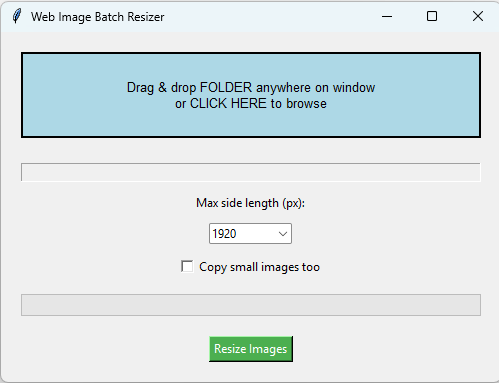
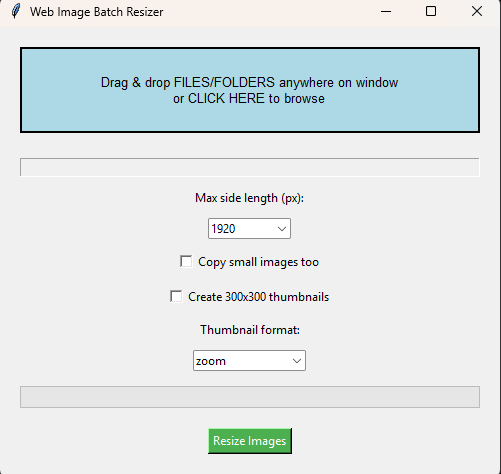
Added thumbnail options

diff --git a/image_resizer.py b/image_resizer.py
@@ -11,7 +11,7 @@ class ImageResizerApp:
     def __init__(self, root):
         self.root = root
         self.root.title("Web Image Batch Resizer")
-        self.root.geometry("500x350")
+        self.root.geometry("500x450")  # Increased height to accommodate all elements
 
         # Root window handles drag-drop (reliable on Windows)
         self.root.drop_target_register(DND_FILES)
@@ -19,7 +19,7 @@ class ImageResizerApp:
 
         self.folder_path = ""
         self.dropped_paths = []  # files and/or folders from drag-drop
-        self.max_sizes = [1920, 1200, 800]
+        self.max_sizes = [1920, 1200, 800, 300]
 
         # Drop zone label (click to browse)
         self.drop_label = tk.Label(
@@ -55,6 +55,24 @@ class ImageResizerApp:
         tk.Checkbutton(
             root, text="Copy small images too", variable=self.copy_small
         ).pack(pady=5)
+
+        # Checkbox for creating thumbnails (300x300)
+        self.create_thumbnails = tk.BooleanVar(value=False)
+        tk.Checkbutton(
+            root, text="Create 300x300 thumbnails", variable=self.create_thumbnails
+        ).pack(pady=5)
+
+        # Thumbnail format selection
+        tk.Label(root, text="Thumbnail format:").pack(pady=5)
+        self.thumbnail_format = tk.StringVar(value="zoom")
+        thumbnail_formats = ttk.Combobox(
+            root,
+            textvariable=self.thumbnail_format,
+            values=["zoom", "black bars", "white bars", "transparent - .png"],
+            state="readonly",
+            width=15,
+        )
+        thumbnail_formats.pack(pady=5)
 
         # Progress bar
         self.progress = ttk.Progressbar(root, mode="determinate")
@@ -200,6 +218,75 @@ class ImageResizerApp:
                         (new_w, new_h), Image.Resampling.LANCZOS
                     )
                     base, _ = os.path.splitext(os.path.basename(img_path))
+                    
+                    # Handle thumbnail creation
+                    if self.create_thumbnails.get():
+                        # Create a separate thumbnail directory
+                        thumb_dir = output_dir / "thumbnails"
+                        thumb_dir.mkdir(exist_ok=True)
+                        
+                        # Create 300x300 thumbnail based on format selection
+                        if self.thumbnail_format.get() == "zoom":
+                            # Scale to shortest side = 300, then crop to make 300x300 square
+                            img_copy = img.copy()
+                            
+                            # Determine which dimension is shorter and scale accordingly
+                            if width <= height:
+                                # Width is shorter - scale width to 300
+                                scale_factor = 300 / width
+                                new_height = int(height * scale_factor)
+                                img_copy = img_copy.resize((300, new_height), Image.Resampling.LANCZOS)
+                                
+                                # Crop center to make 300x300
+                                crop_top = (new_height - 300) // 2
+                                img_copy = img_copy.crop((0, crop_top, 300, crop_top + 300))
+                            else:
+                                # Height is shorter - scale height to 300
+                                scale_factor = 300 / height
+                                new_width = int(width * scale_factor)
+                                img_copy = img_copy.resize((new_width, 300), Image.Resampling.LANCZOS)
+                                
+                                # Crop center to make 300x300
+                                crop_left = (new_width - 300) // 2
+                                img_copy = img_copy.crop((crop_left, 0, crop_left + 300, 300))
+                            
+                            thumb_path = thumb_dir / f"{base}_thumb.jpg"
+                            img_copy.convert("RGB").save(thumb_path, "JPEG", quality=92, optimize=True)
+                            
+                        elif self.thumbnail_format.get() == "black bars":
+                            # Resize with black bars (letterbox)
+                            img_copy = img.copy()
+                            img_copy.thumbnail((300, 300), Image.Resampling.LANCZOS)
+                            thumb = Image.new("RGB", (300, 300), "black")
+                            paste_x = (300 - img_copy.width) // 2
+                            paste_y = (300 - img_copy.height) // 2
+                            thumb.paste(img_copy, (paste_x, paste_y))
+                            thumb_path = thumb_dir / f"{base}_thumb.jpg"
+                            thumb.save(thumb_path, "JPEG", quality=92, optimize=True)
+                            
+                        elif self.thumbnail_format.get() == "white bars":
+                            # Resize with white bars (letterbox)
+                            img_copy = img.copy()
+                            img_copy.thumbnail((300, 300), Image.Resampling.LANCZOS)
+                            thumb = Image.new("RGB", (300, 300), "white")
+                            paste_x = (300 - img_copy.width) // 2
+                            paste_y = (300 - img_copy.height) // 2
+                            thumb.paste(img_copy, (paste_x, paste_y))
+                            thumb_path = thumb_dir / f"{base}_thumb.jpg"
+                            thumb.save(thumb_path, "JPEG", quality=92, optimize=True)
+                            
+                        elif self.thumbnail_format.get() == "transparent - .png":
+                            # Resize with transparent background
+                            img_copy = img.copy()
+                            img_copy.thumbnail((300, 300), Image.Resampling.LANCZOS)
+                            thumb = Image.new("RGBA", (300, 300), (0, 0, 0, 0))  # Transparent background
+                            paste_x = (300 - img_copy.width) // 2
+                            paste_y = (300 - img_copy.height) // 2
+                            thumb.paste(img_copy, (paste_x, paste_y))
+                            thumb_path = thumb_dir / f"{base}_thumb.png"
+                            thumb.save(thumb_path, "PNG", optimize=True)
+                    
+                    # Save main image in original format (no changes to existing behavior)
                     out_path = output_dir / f"{base}.jpg"
                     resized.convert("RGB").save(
                         out_path, "JPEG", quality=92, optimize=True
@@ -212,9 +299,14 @@ class ImageResizerApp:
             self.progress["value"] = i + 1
             self.root.update()
 
+        # Show results message with thumbnail info
+        result_msg = f"Processed: {processed}\nSkipped: {skipped}\nErrors: {errors}\n→ {output_dir}"
+        if self.create_thumbnails.get():
+            result_msg += f"\n\nThumbnails created in /thumbnails/ folder (format: {self.thumbnail_format.get()})"
+        
         messagebox.showinfo(
             "Complete",
-            f"Processed: {processed}\nSkipped: {skipped}\nErrors: {errors}\n→ {output_dir}",
+            result_msg
         )
 
 

diff --git a/readme.md b/readme.md
@@ -9,8 +9,10 @@ Features
 - Smart Logic:
   - Files -> resize only those (/parent/resized/)
   - Folders -> full recursive batch
-- Presets: 1920px hero, 1200px large, 800px thumbs
+- Presets: 1920px hero, 1200px large, 800px thumbs, 300px thumbnails
 - Copy small images checkbox
+- Create 300x300 thumbnails checkbox
+- Thumbnail format options: zoom, black bars, white bars, transparent - .png
 - Progress + stats
 - Standalone EXE
 
